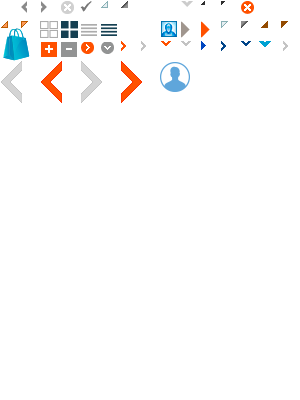
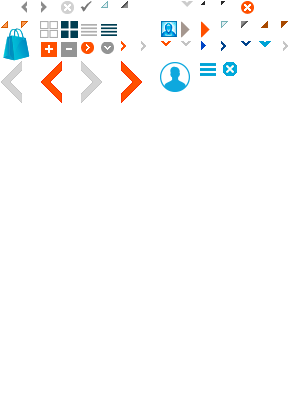
cambios responsivo head

diff --git a/css/base.css b/css/base.css
@@ -366,7 +366,7 @@ dl, ol, ul {
 	background-position: -121px -1px;
 }
 /* #widget_minishopcart.selected:after,*/
-#quickLinksButton.selected:after, #departmentsButton.selected:after, #allDepartmentsButton.selected:after  /*, #searchButton.selected:after */ {
+/*#departmentsButton.selected:after,*/ #quickLinksButton.selected:after, #allDepartmentsButton.selected:after  /*, #searchButton.selected:after */ {
 	content: " ";
 	background-position: -241px -21px;
 }
@@ -630,7 +630,7 @@ dl, ol, ul {
   position: absolute;
   /*left: 50%;
   margin-left: 255px;*/
-  right: 100px;
+  right: 85px;
   top: 44px;
   width: 110px;
   display: inline-block;
@@ -1789,8 +1789,11 @@ background-color:#f7f7f7;
 	  left: inherit !important;
 	  right: 105px;
 	}
-	
-	#quickLinksBar li.signIn a:before{
+    *:focus  
+    {  
+        outline: none;  
+    }  
+	#quickLinksBar li.signIn > a:before{
 	  position: absolute!important;
 	  background-image: url("../images/responsive/rwdUI.png");
 	  background-repeat:no-repeat;
@@ -1800,9 +1803,10 @@ background-color:#f7f7f7;
 	  height: 34px;
 	  content:" ";
 	  display:block;
-	  top: 5px;
+	  top: 4px;
 	  left: 5px;
 }	
+
 
 	/* Header */
 
@@ -1843,12 +1847,23 @@ background-color:#f7f7f7;
 
 	#departmentsButton {
 	  display: block;
-	  max-width: 10px;
-	  margin: 2px 20px 2px 5px;
-	}
+	  width: 27px;
+	  margin: 0px;
+	  height: 24px;
+	  background-color: transparent;
+	  background-image: url("../images/responsive/rwdUI.png");
+	  background-repeat: no-repeat;
+	  background-position: -194px -58px;
+	  top: 3px;	  
+	 }
+	 
+	#departmentsButton.selected {
+	  background-position: -217px -57px!important
+	 }
+	 
 	#departmentsButton > span {
-		display: block;
-		height: 35px;
+		display: none;
+		height: 30px;
 		line-height: 35px;
 		padding: 0 10px;
 		text-align: left;
@@ -1859,7 +1874,7 @@ background-color:#f7f7f7;
 	#departmentsMenu.active {
 		display: block;
 		position: absolute;
-		  min-width: 300px;
+		  min-width: 265px;
 		left: 0;
 		right: 0;
 		top: 100%;
@@ -2165,14 +2180,69 @@ background-color:#f7f7f7;
 	  left:40px;
 	}
 	#headerRow2{
-	  background: blue;
 	  width: auto;
 	  display: inline-block;
 	  position: absolute;
 	  top: 15px;
+	  height: 28px;
+	  border: none;
+	  left: 10px;
 	}
 	
 }
+
+
+
+@media (max-width: 600px){
+
+.texto_carrusel_banner {
+top:20px;
+width: 80%;
+}  
+#headerRow1 {
+  height: 100px;
+}
+#headerRow2 {
+  left: 50%;
+  margin-left: -148px;
+ }
+#logo {
+  height: 60%;
+  left: 50%;
+  margin-left: -85px;
+  
+}
+#searchBar {
+  top: 38px;
+  width:300px;
+  margin-left:-150px;
+}
+
+#quickLinksBar li.signIn a {
+  left: 50%!important;
+ }
+
+#quickLinksBar li.signIn a:before {
+  left: 50%;
+  margin-left: 40px;
+}
+
+#MiniShoppingCart {
+	left:50%;
+	margin-left:100px;
+}
+
+
+#departmentsButton > span {
+	display:none;
+}
+
+#searchTermWrapper > input {
+  width: 240px!important;
+}  
+
+}
+
 
 @media (max-width: 895px){
 	#footerCorporateInfoSection{
@@ -2208,7 +2278,7 @@ background-color:#f7f7f7;
 	}
 
 	/* Search bar */
-
+/*
 	#searchTermWrapper {
 		right: 58px;
 		border-right: 0px solid #bfbfbf;
@@ -2222,6 +2292,7 @@ background-color:#f7f7f7;
 	#searchBox > .submitButton {
 		border-width: 6px 20px;
 	}
+*/
 
 }
 
@@ -2236,7 +2307,7 @@ background-color:#f7f7f7;
 		background-image: url("../images/responsive/rwdUI@2x.png");
 		background-size: 300px 400px;
 	}
-	#widget_minishopcart:before,
+	/*#widget_minishopcart:before,
 	#searchBox > .submitButton:before,
 	.carousel > .prevPageButton:before,
 	.carousel > .nextPageButton:before,
@@ -2245,15 +2316,15 @@ background-color:#f7f7f7;
 		content: url("../images/responsive/rwdUI@2x.png");
 		-webkit-transform: scale(0.5);
 		-webkit-transform-origin: 0 0 0;
-	}
+	}*/
 	.contentCarouselWidget > .prevPageButton:before,
 	.contentCarouselWidget > .nextPageButton:before {
 		content: url("../images/responsive/DirectionalControls_MasterSprite.png");
 		-webkit-transform: scale(1);
 	}
-	#widget_minishopcart:before {
+	/*#widget_minishopcart:before {
 		clip: rect(82px, 58px, 122px, 2px);
-	}
+	}*/
 }
 
 @media (-webkit-device-pixel-ratio: 2) and (max-width: 1133px) {
@@ -2526,15 +2597,6 @@ div.namePartPriceContainer > div > span.price {
 	 margin: 0 auto !important;
 }
 
-@media (max-width: 600px){
-
-.texto_carrusel_banner {
-top:20px;
-width: 80%;
-}  
-
-
-}
 
 /* Inicia categorias izquierdo*/ 
 

diff --git a/javascript/funciones.js b/javascript/funciones.js
@@ -1,0 +1,35 @@
+
+$( document ).ready(function() {
+
+	
+	$(".asistenciaTienda").hover(function(){
+	    $(".asistenciaLista").toggle();
+	});
+
+
+
+});
+
+
+
+
+if ($(window).width() > 952) {
+	var claseMenu = "";
+console.log("mayor a 952");
+	$(".menuLink").hover(
+		function () {
+			claseMenu = $(this).attr('rel');			
+			$("."+claseMenu).html();
+	   		$('div.'+claseMenu).slideDown(1);
+		}, 
+		function () {
+			claseMenu = $(this).attr('rel');
+		   $('div.'+claseMenu).slideUp(1);
+		}
+	);
+	
+
+}
+else {
+   console.log('Less than 960');   
+}

diff --git a/css/styles.css b/css/styles.css
@@ -6285,12 +6285,14 @@ div[dijitpopupparent^='WC_UserMemberGroupManagement_'] > .dijitSelectMenu table 
 		-moz-border-right-colors: none;
 		-moz-border-top-colors: none;
 		background: none repeat scroll 0 0 #FFFFFF;
-		border-color: #B8B8B8 #B8B8B8 #FFFFFF;
+		/*border-color: #B8B8B8 #B8B8B8 #FFFFFF;*/
 		border-image: none;
 		border-style: solid;
 		border-top-left-radius: 5px;
 		border-top-right-radius: 5px;
-		border-width: 1px;
+		/*border-width: 1px;*/
+		border-width: 0px;
+		background:transparent;		
 		left: 1px;
 		z-index: 101;
 	}
